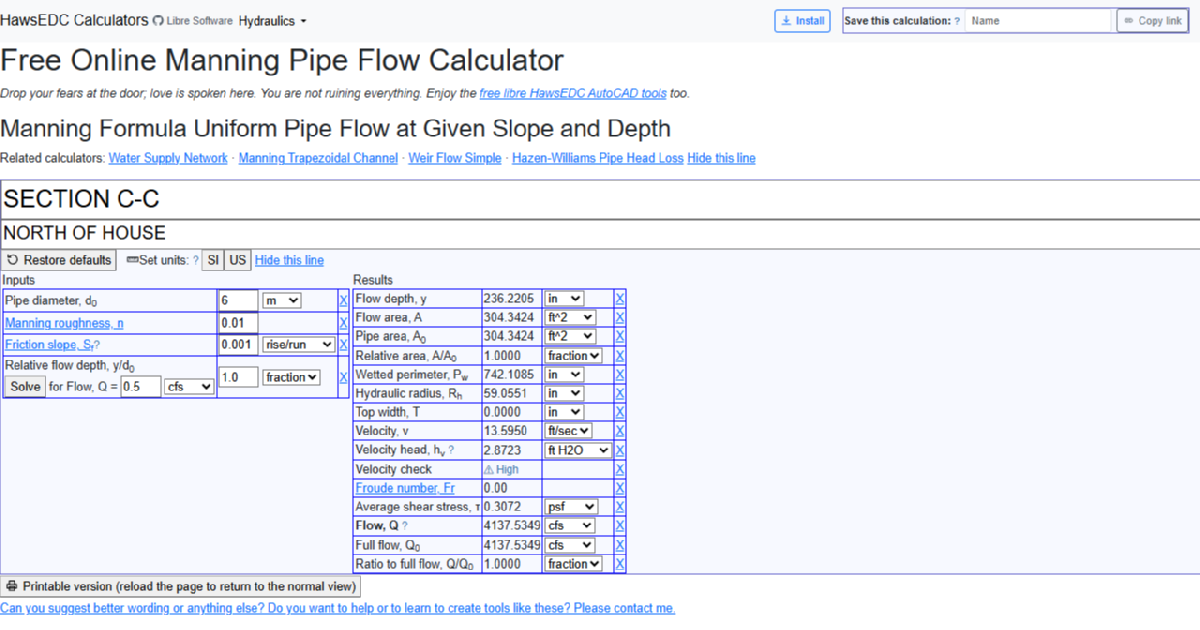
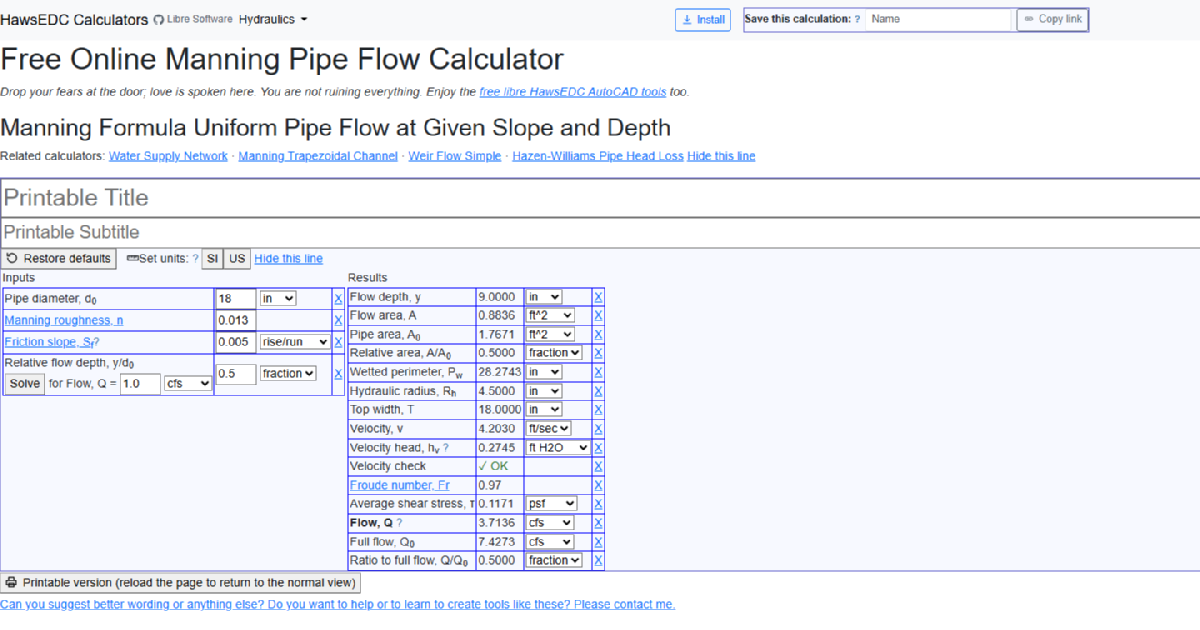
Eleven English share cards land; Orifice has no answers to show

Changed region(s): [[0.0, 0.0, 1.0, 0.9952], [0.555, 0.0, 1.0, 0.0603]]

diff --git a/dev/screenshots/INDEX.md b/dev/screenshots/INDEX.md
@@ -17,6 +17,16 @@
 > privacy-clean by the test below: no browser chrome at all, no real project name (the two typed
 > title fields that carry anything read `SECTION C-C` / `NORTH OF HOUSE`, which name no client and
 > no place), no file path, no consent banner.
+>
+> **0067–0081 arrived the same day and are the ENGLISH half.** Tom: *"I added the specified
+> English/fallback screenshots."* Thirteen became the no-suffix cards a `?lang=` URL falls back to,
+> and two of those REPLACED a weaker English card already in the directory (Manning-Pipe-Flow and
+> Manning-Trap, both now on shipped defaults with the printable title fields empty). All fifteen are
+> ~1905x920, so none needed padding. **Eleven of the twelve wanted are satisfied; Orifice is not** —
+> see its row. **A frame's privacy is not the only test a CARD has to pass:** a card should show the
+> page as a first-time visitor meets it, so a ⚠ from a typed-in experiment, a typed printable title,
+> or a results column that never computed all make a frame a weaker card than a clean one. That is
+> why 0074 and 0071 are indexed but unused.
 
 
 One line per file: what it shows, and whether it could go on a public page. Written by AI from
@@ -165,7 +175,8 @@ Shoot these deliberately rather than at random, and crop to the PAGE, not the wi
 | **The Nominatim consent prompt** | 0011–0014 all have the browser's bookmarks bar and profile picture in frame | Just the dialog and the map. The consent wording is one of the most honest things in the suite and nothing shows it |
 | **"Place the model here permanently?"** | 0021, same browser chrome | The confirm on its own. It is the plainest one-way-door warning we have written |
 | **The Settings box, not covering the menu bar** | 0029 is the best picture of label control, but the box is dragged over the title and tab strip, so the frame stops saying what application it is | Same content, box parked clear of the top chrome |
-| **Twelve calculators, in ENGLISH, on their own defaults** | 0049–0066 gave every calculator a frame, but only three are in English (0062, 0063, 0066), and an English capture is what a calculator's DEFAULT share card has to be — see the calculator table above for the list and the reasoning | The same shot Tom already took in another language: 1920 wide, page region only, English, nothing typed into the printable title, the page on its shipped defaults so no ⚠ is in frame |
+| ~~Twelve calculators, in ENGLISH, on their own defaults~~ **ELEVEN DONE 2026-08-25** | 0067–0081 are the English re-shoot and closed eleven of the twelve. They also replaced the two weak English cards this queue had flagged separately, so Manning-Pipe-Flow and Manning-Trap now open on their shipped defaults with the printable title fields empty | -- |
+| **ORIFICE, in English, with its results computed** | The one of the twelve still open. 0071 is the English Orifice frame and it is privacy-clean, but its whole results column still reads the placeholder labels the page ships in the HTML — `Centroid elevation`, `Effective head, h`, `Flow, Q` — because the on-load calculation had not run when the shutter fired. A card advertising a calculator that shows no answers is worse than the suite card, so `Orifice.png` was not made and the English URL still falls back | The same frame taken a moment later, with 105 / 100 / 101 / 18 in and Cd 0.61 producing numbers and the free-or-submerged verdict, exactly as `Orifice-pt.png` (0056) already shows in Portuguese |
 | **Saving to a file** | 0025 shows a real folder listing and a real path | The browser's own permission prompt, over a network, in a folder whose name says nothing about you |
 
 ## The calculator frames, 0049–0066
@@ -193,18 +204,41 @@ wasted, and nothing is used where it would look wrong.**
 | 0060 | Manning-Trap | id | **Yes** | `Manning-Trap-id.png` | Indonesian. Carries a ⚠ "Di luar rentang" and a negative rock size, because the capture has `sg` typed as `.001` — a user's experiment, not the shipped defaults. Fine as a picture of the page; a re-shoot on defaults would be a better advert |
 | 0061 | Branched-Network | he | **Yes** | `Branched-Network-he.png` | Hebrew, RTL, cropped from the right like 0051. The pipe table below the form is left-aligned and only partly in frame, which is the one untidy edge in the set |
 | 0062 | Darcy-Weisbach | **en** | **Yes** | `Darcy-Weisbach.png` | One of only three English frames, so one of only three DEFAULT cards. Clean, on the shipped defaults, every check passing |
-| 0063 | Manning-Trap | **en** | **Yes** | `Manning-Trap.png` | English default card. Same `sg = .001` state as 0060, so the same ⚠ and the same negative rock sizes are on the card. Worth re-shooting on defaults |
+| 0063 | Manning-Trap | **en** | **Yes** | *(superseded by 0079)* | Was the English default card. Same `sg = .001` state as 0060, so the same ⚠ and the same negative rock sizes were on the card. 0079 is the re-shoot on defaults and took the name |
 | 0064 | Hazen-Williams | uk | **Yes** | `Hazen-Williams-uk.png` | Ukrainian. Cropped 1440 wide so the navbar's Copy-link button is not cut in half |
 | 0065 | Manning-Pipe-Head-Loss | hr | **Yes** | `Manning-Pipe-Head-Loss-hr.png` | Croatian. Clean, complete, nothing to explain away |
-| 0066 | Manning-Pipe-Flow | **en** | **Yes** | `Manning-Pipe-Flow.png` | English default card for the suite's most-used calculator. Two things date it as an advert rather than as evidence: the printable title fields carry `SECTION C-C` / `NORTH OF HOUSE`, and the state is a 6 m pipe with a ⚠ High velocity check. Nothing identifying — but this is the first calculator to re-shoot in English on defaults |
+| 0066 | Manning-Pipe-Flow | **en** | **Yes** | *(superseded by 0078)* | Was the English default card for the suite's most-used calculator. Two things made it an advert rather than evidence: the printable title fields carried `SECTION C-C` / `NORTH OF HOUSE`, and the state was a 6 m pipe with a ⚠ High velocity check. Nothing identifying — and 0078 is the re-shoot that took the name |
+
+## The English calculator frames, 0067–0081
+
+All fifteen are English, all ~1905x920, all page-region captures with no browser chrome, no file
+path and no consent banner. The **Crop** column is the native box taken from the top-left before the
+scale to 1200x630: **1280x672 unless the navbar's Copy-link button ran past 1280**, which was
+measured on every frame rather than eyeballed — it does on the nine marked 1440.
+
+| # | Page | Publishable | Crop | Card | Notes |
+|---|---|---|---|---|---|
+| 0067 | Canal-Seepage | **Yes** | 1440x756 | `Canal-Seepage.png` | The only frame here that is not on bare shipped defaults, and deliberately so: the four OPTIONAL economics inputs (wetted perimeter, water value, lining cost, target efficiency) ship blank, and Tom filled them, so the card shows the payback period and the annual value the page exists to produce. No ⚠ — the verdict is ✓ Good |
+| 0068 | Weir-Flow-Irregular | **Yes** | 1440x756 | `Weir-Flow-Irregular.png` | The four weir points and their cumulative flow all read. Longest title in the English set, which is what needed the 1440 |
+| 0069 | Weir-Flow-Simple | **Yes** | 1440x756 | `Weir-Flow-Simple.png` | Exact defaults, 1/1/3. The suite's shortest calculator, so the card carries the whole page including the weir equation and the footer — a picture of a small tool, which is what it is |
+| 0070 | Orifice-Drain-Time | **Yes** | 1440x756 | `Orifice-Drain-Time.png` | Exact defaults. Seconds, minutes, hours and days all in frame, and the ✓ ending-elevation check |
+| 0071 | Orifice | **Yes** | -- | *(none)* | **The one frame in this drop that is clean and still unusable as a card.** Its whole results column reads the placeholder labels the page ships in the HTML — `Centroid elevation`, `Effective head, h`, `Opening area, A`, `Flow, Q`, `Orifice regime check` — with no numbers anywhere, because the on-load calculation had not run when the shutter fired. Not a page defect: every other frame here shows the same page type computing normally. But a card advertising a calculator that produces no answers is worse than the generic suite card, so the English Orifice URL still falls back. This is the remake queue's one open row |
+| 0072 | Micro-Hydro-Power | **Yes** | 1440x756 | `Micro-Hydro-Power.png` | Exact defaults. Power output, annual energy and both ✓ checks on the card; the gross/net head sketch begins just at its lower edge |
+| 0073 | Rock-Chute | **Yes** | 1280x672 | `Rock-Chute.png` | Exact defaults including the deliberately blank optional normal depth. The Robinson equation-selection row and both ✓ range checks read |
+| 0074 | Manning-Irregular | **Yes** | -- | *(superseded by 0081)* | An earlier Manning Irregular capture, in SI, taken while Tom had CHANGED the page's defaults trying for a better example. He then restored them. Rejected for the card on that ground alone — it is privacy-clean and correct, it just is not the page a first-time visitor meets |
+| 0075 | Branched-Network | **Yes** | 1280x672 | `Branched-Network.png` | Exact defaults. Three pipe lines with their flows, losses and downstream pressures, and the network diagram just below the crop |
+| 0076 | Hazen-Williams | **Yes** | 1440x756 | `Hazen-Williams.png` | Exact defaults. The fullest results column in the English set — twenty rows, both ✓ checks, HGL and EGL at both ends |
+| 0077 | Manning-Pipe-Head-Loss | **Yes** | 1440x756 | `Manning-Pipe-Head-Loss.png` | Exact defaults. Complete: every input and every result on one card |
+| 0078 | Manning-Pipe-Flow | **Yes** | 1440x756 | `Manning-Pipe-Flow.png` | **The re-shoot 0066 was flagged for, and strictly better than it**: printable title fields empty, exact shipped defaults, ✓ OK velocity, no ⚠. The suite's most-used calculator finally has an advert rather than evidence |
+| 0079 | Manning-Trap | **Yes** | 1280x672 | `Manning-Trap.png` | **The re-shoot 0063 was flagged for, and strictly better than it**: `sg` back at 2.65, so the ⚠ and the negative rock sizes are gone and every rock-size method reports a real number |
+| 0080 | Irrigation-Pressure | **Yes** | 1280x672 | `Irrigation-Pressure.png` | Exact defaults. The orange advice line under the form ("Pressure at test emitter ≥ supply pressure") is the SHIPPED default state, not a typed experiment — the same line is on `Irrigation-Pressure-sw.png` |
+| 0081 | Manning-Irregular | **Yes** | 1280x672 | `Manning-Irregular.png` | Tom, having restored the defaults: *"The defaults are great. As soon as I restored them, the new screenshot 0081.PNG is good enough."* US units, ✓ OK, five section points with both bank boundaries checked, and a cross-section sketch that actually looks like a natural channel |
 
 **The calculators still waiting for an ENGLISH frame**, and therefore still showing the suite card
-when their English URL is shared: Weir-Flow-Simple, Weir-Flow-Irregular, Orifice, Orifice-Drain-Time,
-Hazen-Williams, Manning-Pipe-Head-Loss, Manning-Irregular, Branched-Network, Irrigation-Pressure,
-Canal-Seepage, Micro-Hydro-Power, Rock-Chute. Twelve. Each needs one capture of the page in English on
-its own defaults, 1920 wide, no browser chrome — the same shot Tom already took in another language.
-Looped-Network is the thirteenth and is a different job: its card is the suite card, which is already
-an lpn frame.
+when their English URL is shared: **Orifice. One.** It needs one capture of the page in English on
+its own defaults with the results computed, 1920 wide, no browser chrome. The other eleven of the
+twelve closed on 2026-08-25 with 0067–0081. Looped-Network was never one of them and is a different
+job: its card is the suite card, which is already an lpn frame.
 
 **The one habit that fixes most of this:** capture the page region, not the browser window. Six of
 the eight unpublishable frames fail for that alone — 0011–0014, 0021, and now 0040 — and nothing on
